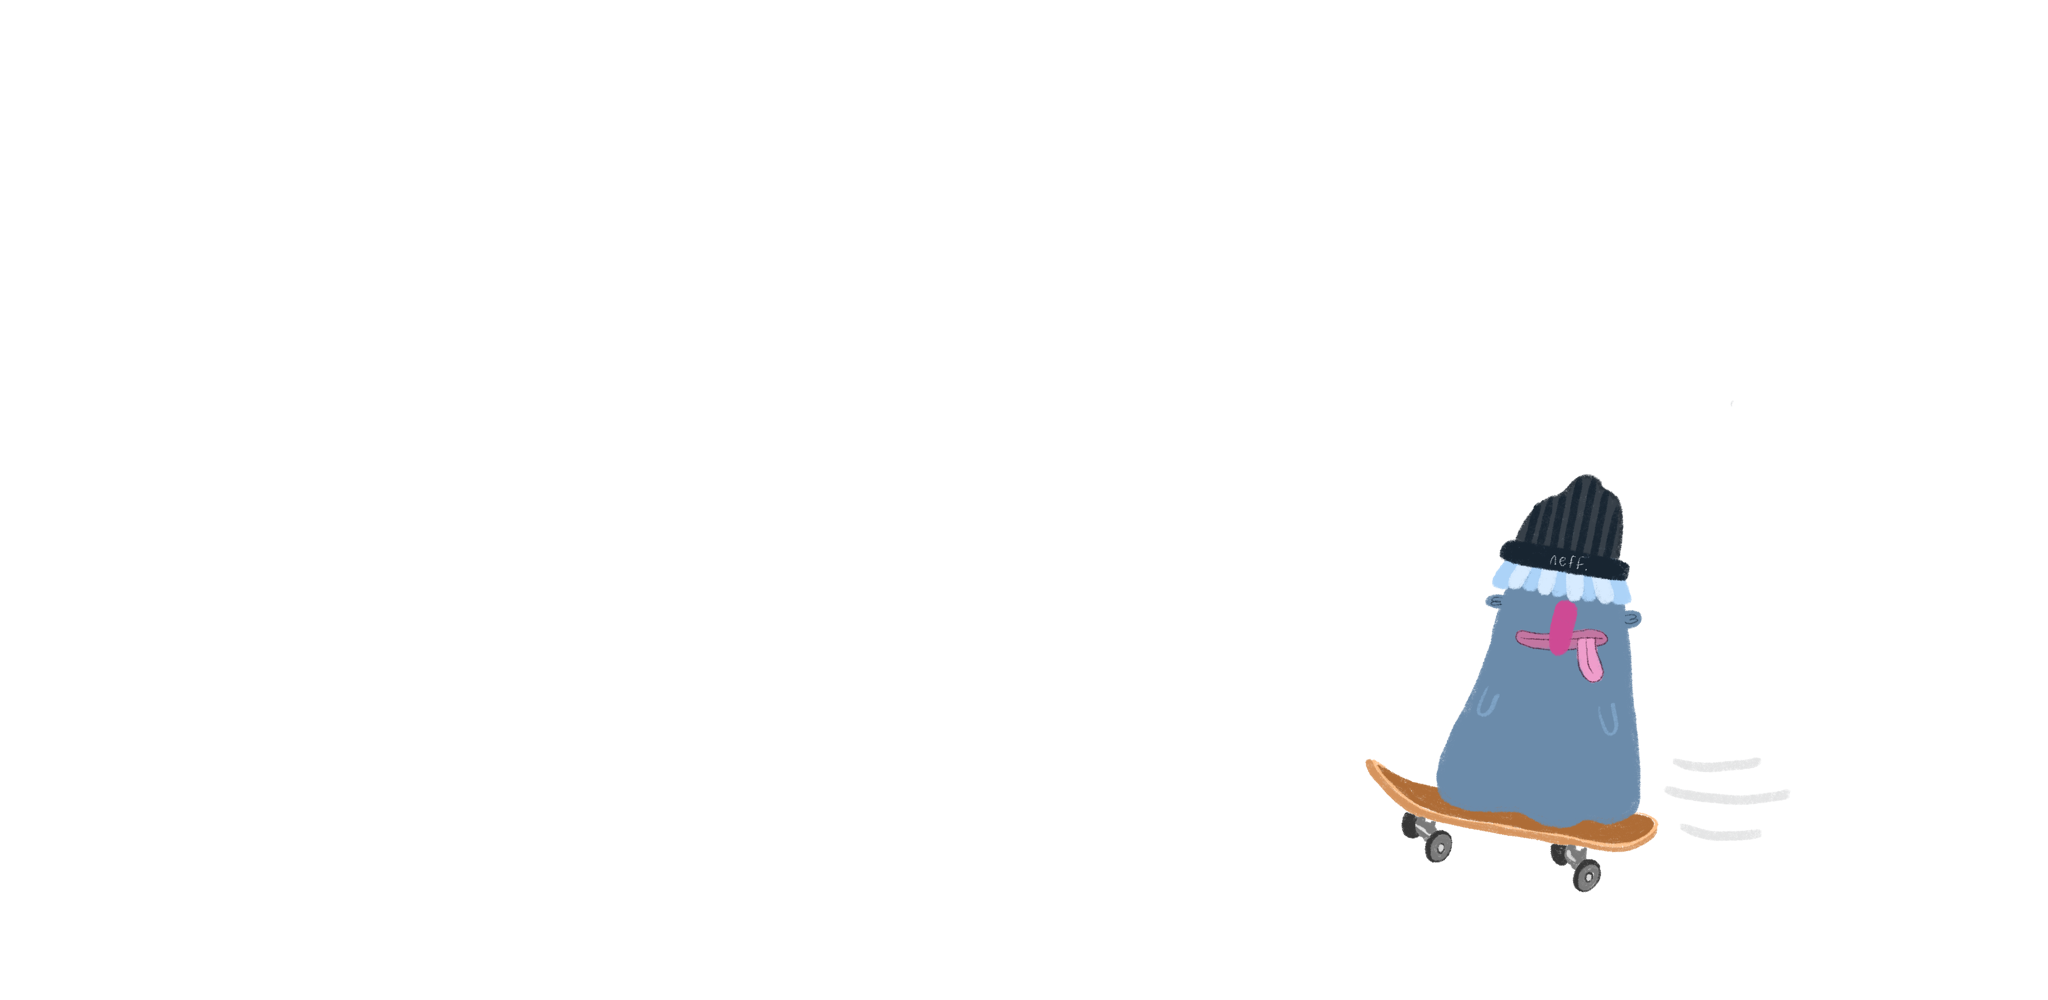
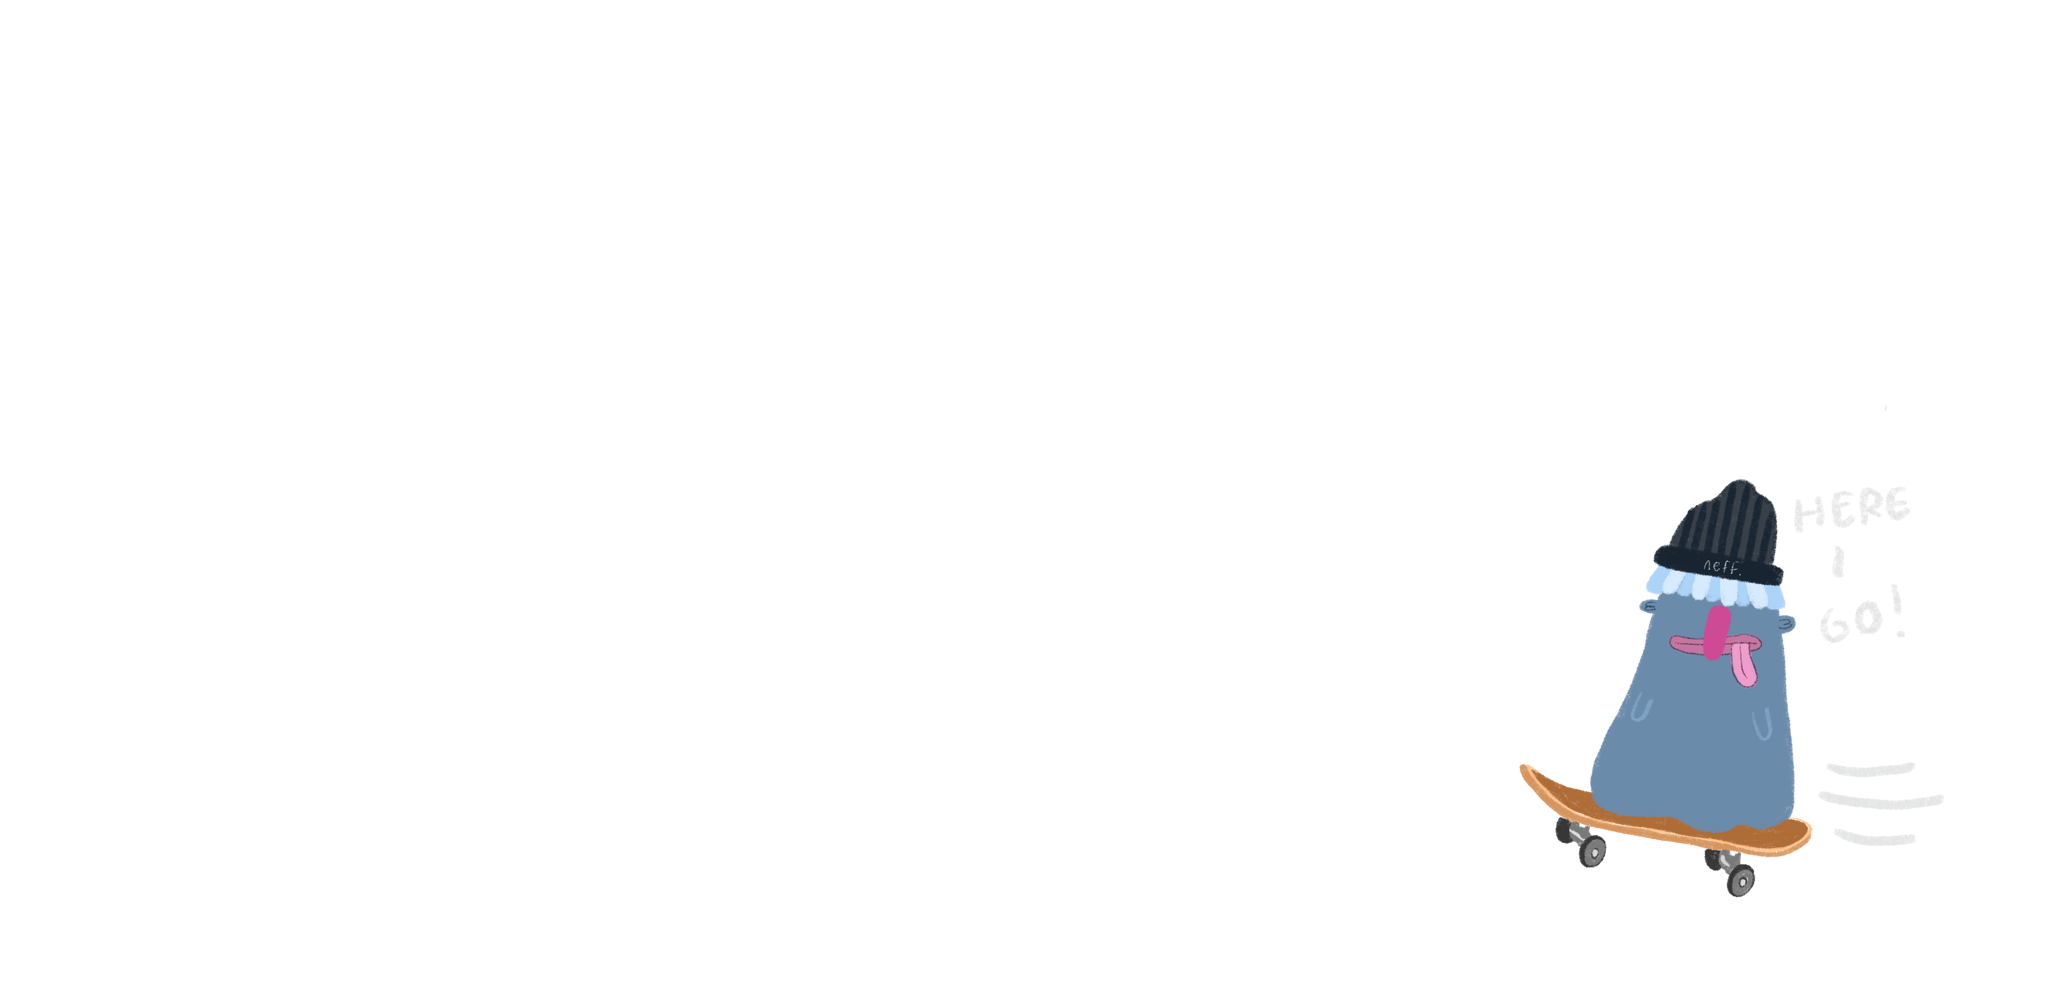
commit 72

Changed region(s): [[0.6562, 0.465, 0.9375, 0.899]]

diff --git a/multiples/css/main.css b/multiples/css/main.css
@@ -6,57 +6,78 @@
     body {
         background: #CD7AA9;
     }
-    #desktop {
+    #stage1 {
         display: inline;
         color: #CD7AA9;
     }
-    #tablet,
-    #mobile,
-    #print {
+    #stage2,
+    #stage3,
+    #stage4,
+    #stage5 {
         display: none;
     }
-    /* tablet */
-    @media (min-width: 670px) and (max-width: 1024px) {
+    /* stage2 */
+    @media (min-width: 1000px) and (max-width: 1400px) {
         body {
             background: #CD7AA9;
         }
-        #tablet {
+        #stage2 {
             display: inline;
             color: #CD7AA9;
         }
-        #desktop,
-        #mobile,
-        #print {
+        #stage1,
+        #stage3,
+        #stage4,
+        #stage5 {
             display: none;
         }
     }
-    /* mobile */
-    @media (max-width: 670px) {
+    /* stage3 */
+    @media (min-width: 800px) and (max-width: 1000px) {
         body {
             background: #CD7AA9;
         }
-        #mobile {
+        #stage3 {
             display: inline;
             color: #CD7AA9;
         }
-        #desktop,
-        #tablet,
-        #print {
+        #stage1,
+        #stage2,
+        #stage4,
+        #stage5 {
             display: none;
         }
     }
-    /* print */
-    @media print {
+    /* stage4 */
+    @media (min-width: 700px) and (max-width: 800px) {
         body {
             background: #CD7AA9;
         }
-        #print {
+        #stage4 {
             display: inline;
             color: #CD7AA9;
         }
-        #desktop,
-        #tablet,
-        #mobile {
+        #stage1,
+        #stage2,
+        #stage3,
+        #stage5 {
             display: none;
         }
+    }
+      /* stage5 */
+      @media (max-width: 700px) {
+          body {
+              background: #CD7AA9;
+          }
+          #stage5 {
+              display: inline;
+              color: #CD7AA9;
+          }
+          #stage1,
+          #stage2,
+          #stage3,
+          #stage4 {
+              display: none;
+          }
+      }
     }

diff --git a/multiples/multiples.html b/multiples/multiples.html
@@ -8,21 +8,25 @@
     <link rel="stylesheet" href="css/main.css" />
 </head>
 <body>
-    <!-- show by default -->
-    <div id="desktop">
+    <!-- 1 -->
+    <div id="stage1">
         <img src="assets/skateboard1.png"width="1365.3" height="666.67"/>
     </div>
-    <!-- show on tablet -->
-    <div id="tablet">
+    <!-- 2 -->
+    <div id="stage2">
         <img src="assets/skateboard2.png"width="1365.3" height="666.67"/>
     </div>
-    <!-- show on mobile -->
-    <div id="mobile">
+    <!-- 3 -->
+    <div id="stage3">
         <img src="assets/skateboard3.png"width="1365.3" height="666.67"/>
     </div>
-    <!-- show on print -->
-    <div id="print">
-        This is for print.
+    <!-- 4 -->
+    <div id="stage4">
+        <img src="assets/skateboard4.png"width="1365.3" height="666.67"/>
+    </div>
+    <!-- 5 -->
+    <div id="stage5">
+        <img src="assets/skateboard5.png"width="1365.3" height="666.67"/>
     </div>
 </body>
 </html>
